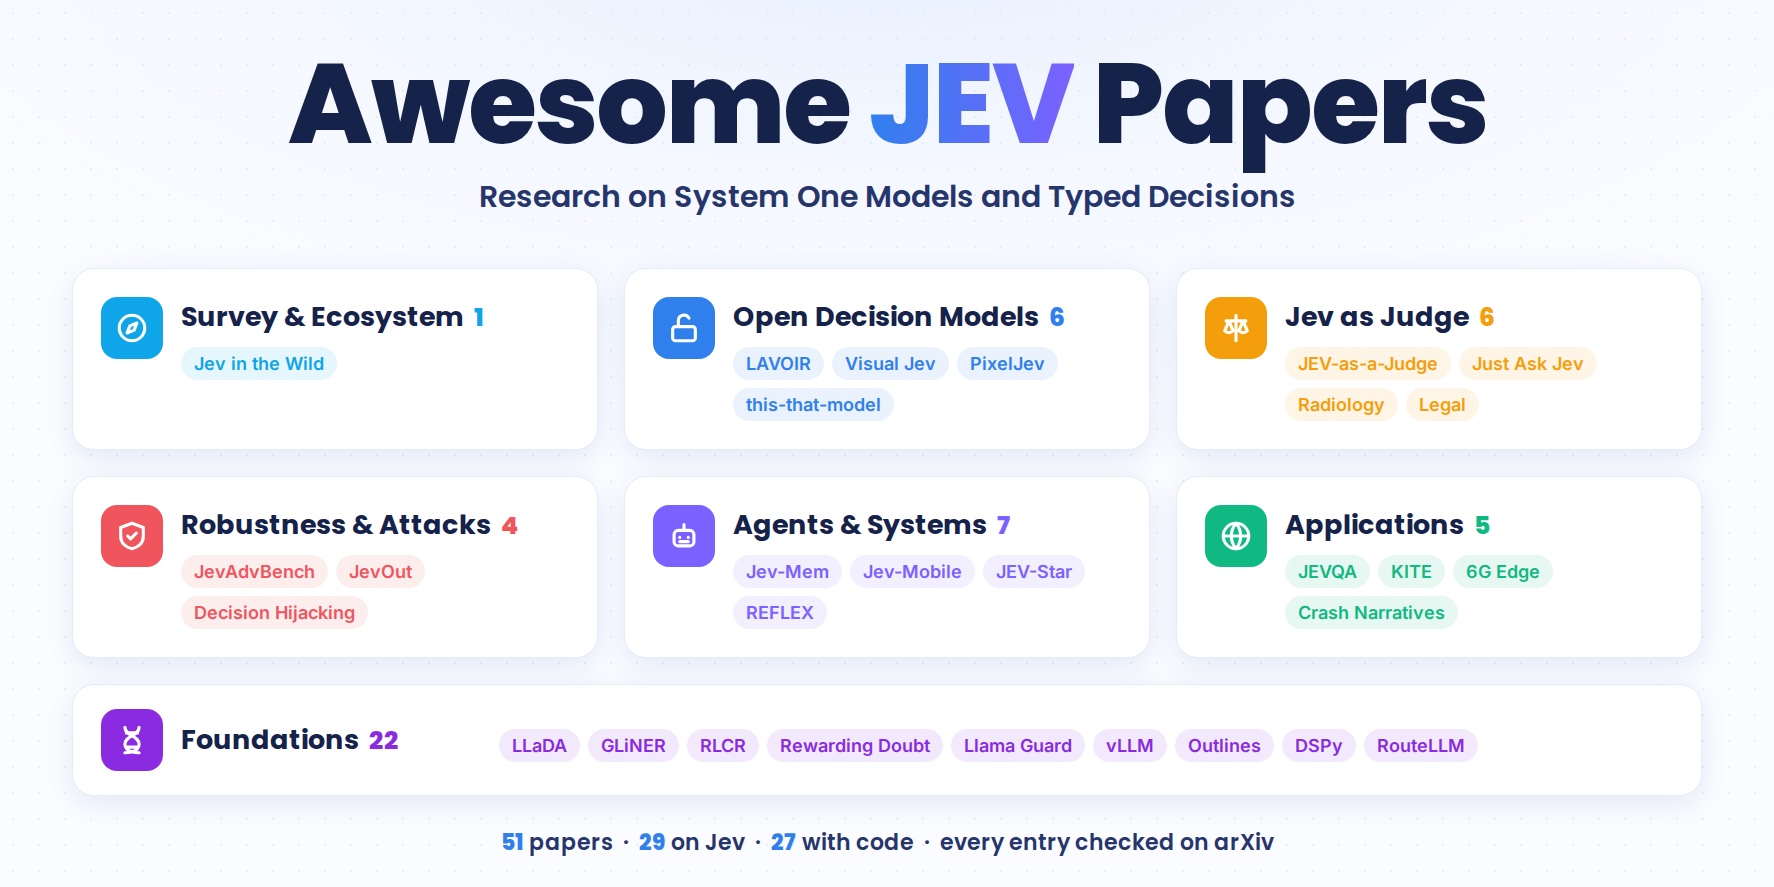
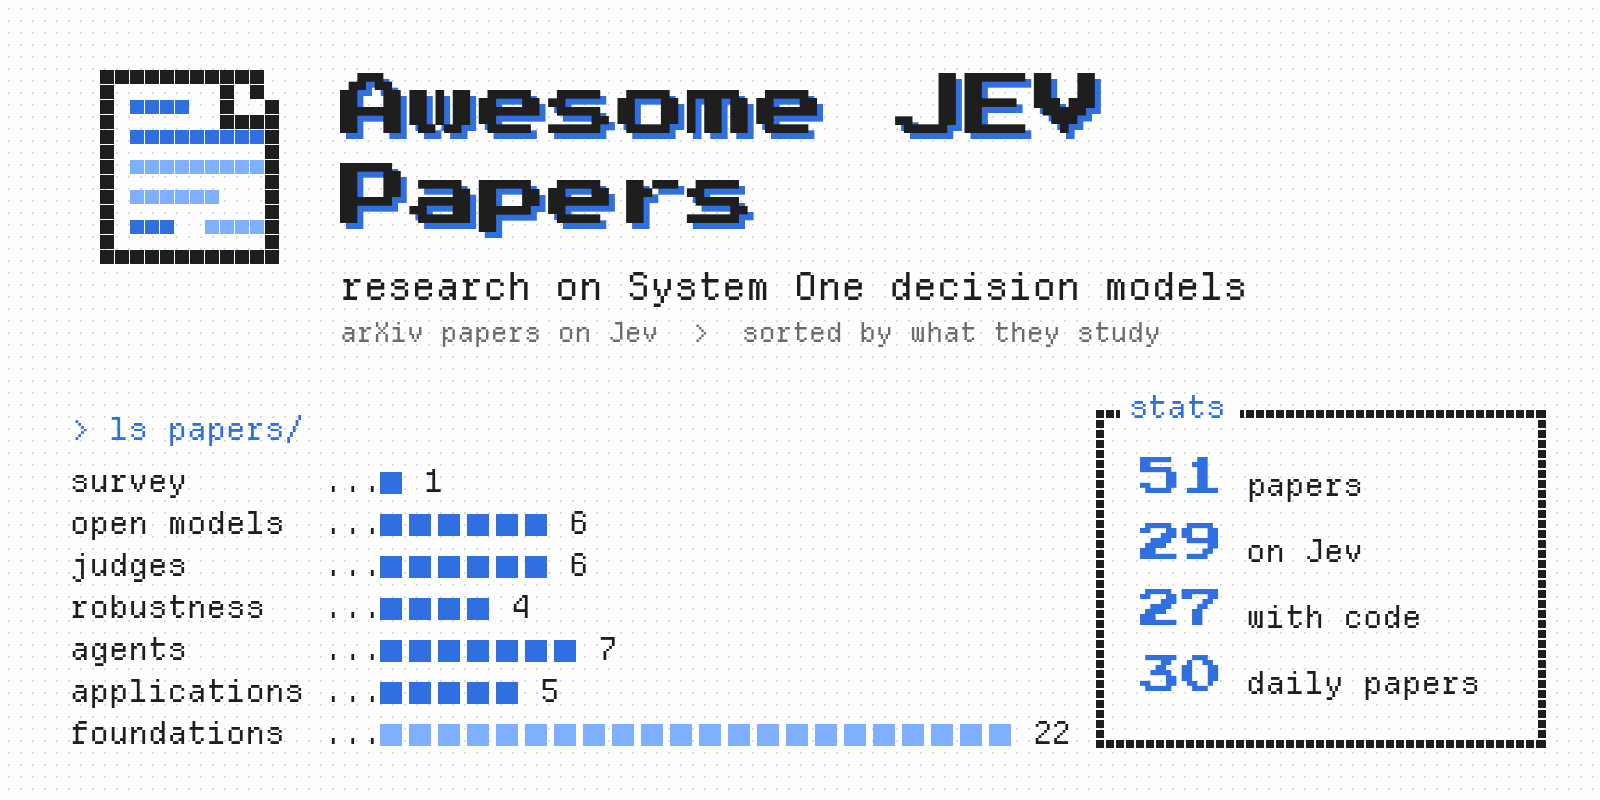
pixel cover

diff --git a/README.md b/README.md
@@ -1,6 +1,9 @@
 <div align="center">
 
-<img src="assets/cover.png" alt="Awesome JEV Papers: research papers on Jev and System One decision models" width="100%">
+<picture>
+  <source media="(prefers-color-scheme: dark)" srcset="assets/cover-dark.png">
+  <img src="assets/cover.png" alt="Awesome JEV Papers: research on System One decision models. 51 papers: survey 1, open models 6, judges 6, robustness 4, agents 7, applications 5, foundations 22" width="100%">
+</picture>
 
 # Awesome JEV Papers [![Awesome](https://awesome.re/badge.svg)](https://awesome.re)
 
